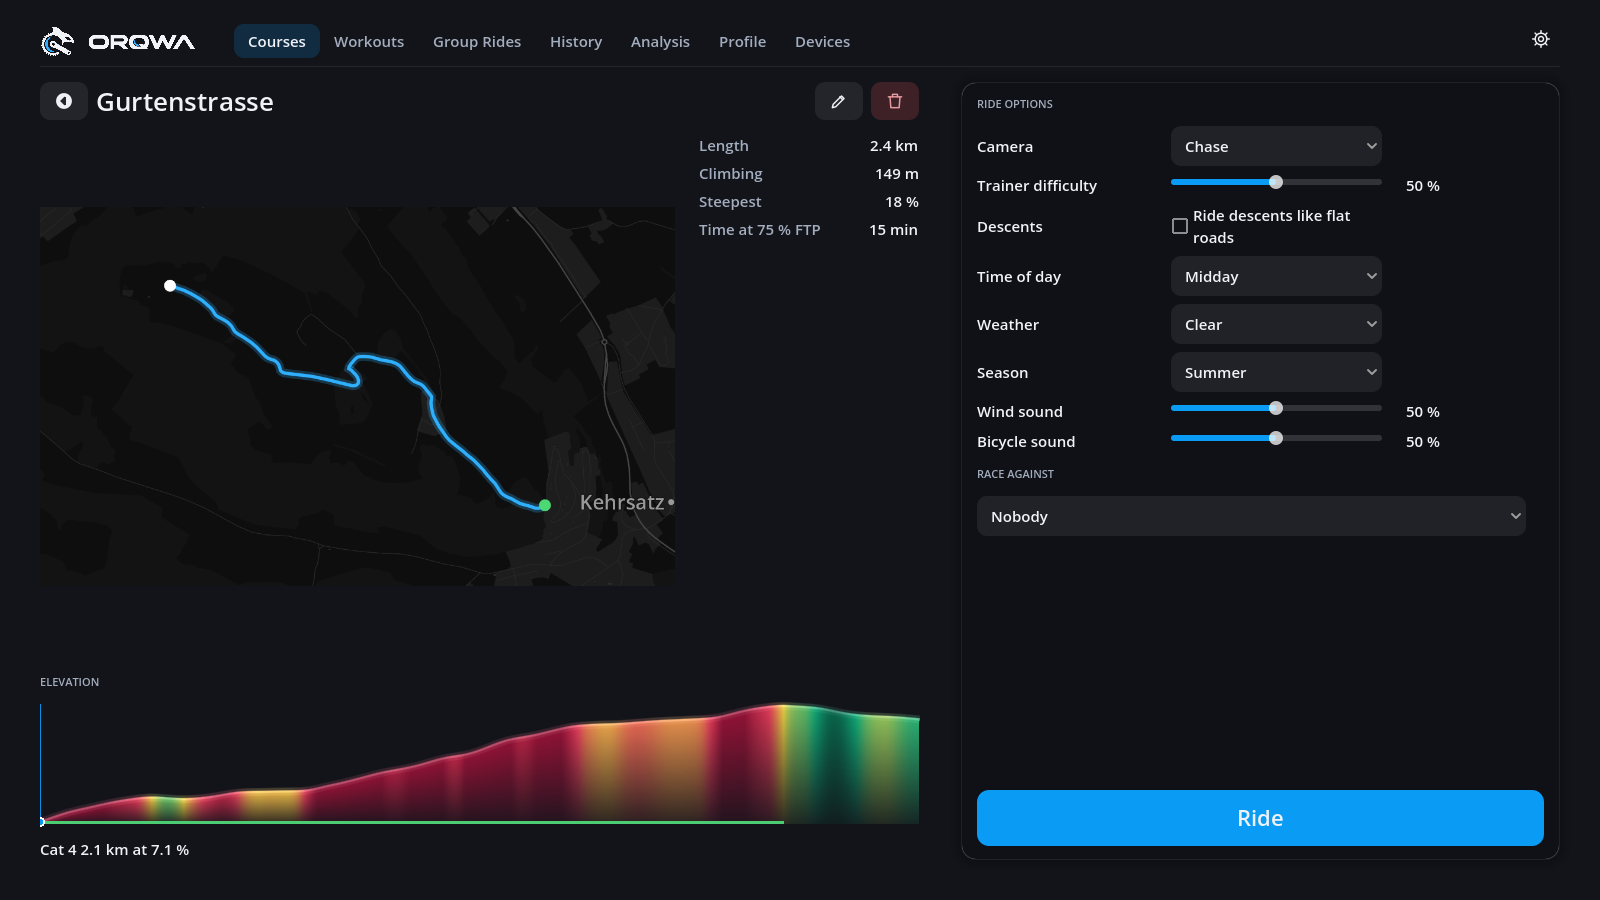
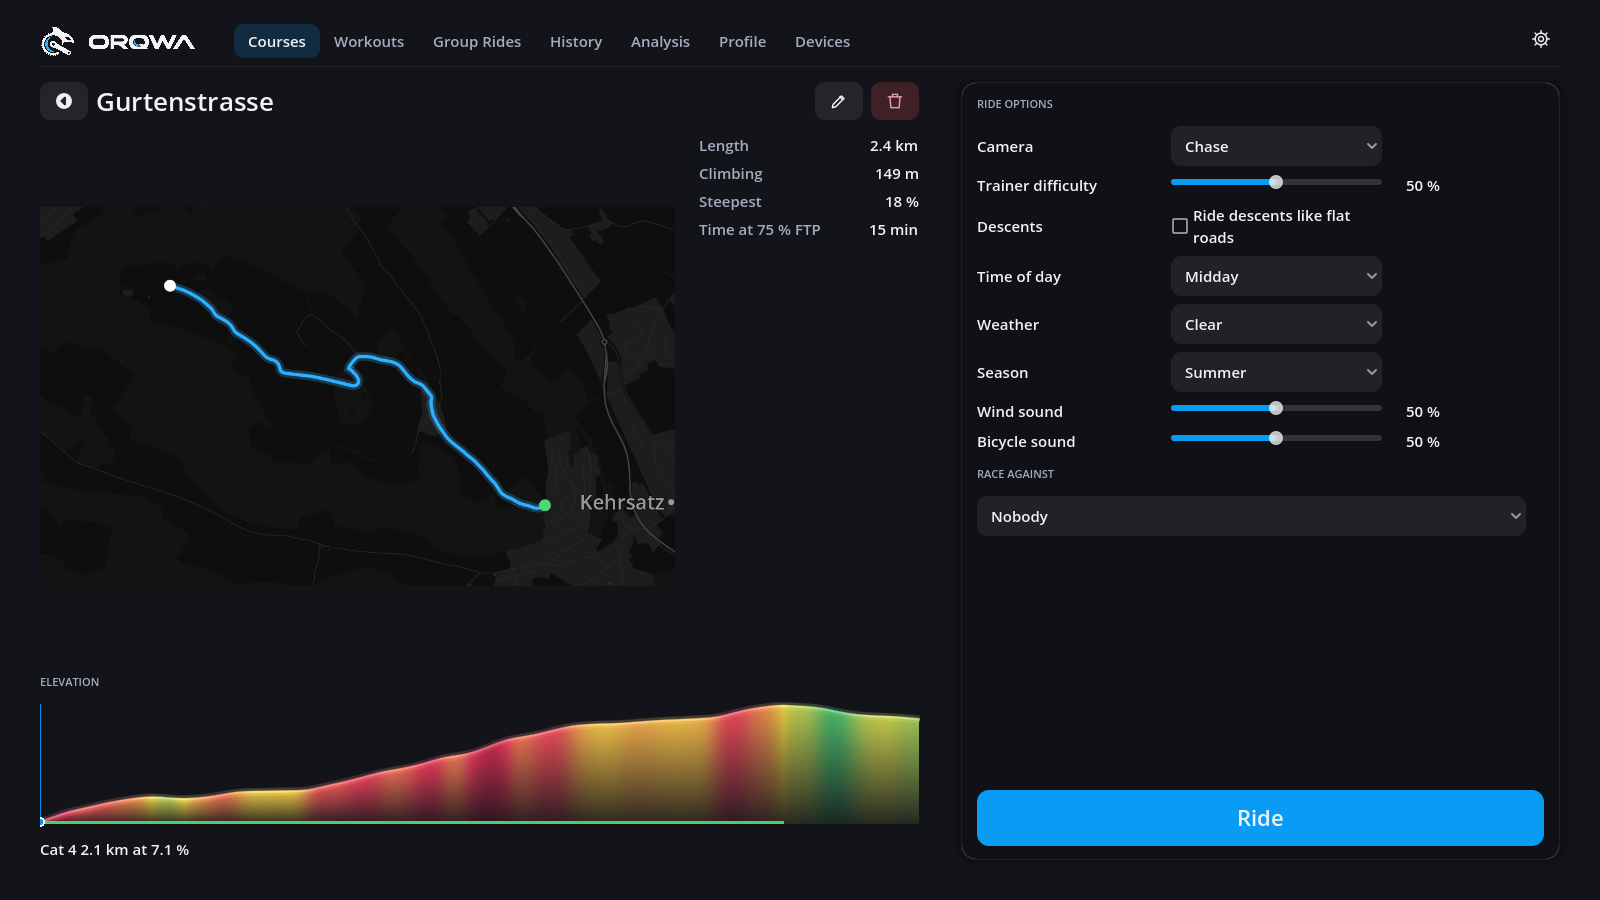
feat(ui): see-through gradient profile over the ride, deep red at 25%
During a ride the profile sits over the 3D world, so its area and outline
are drawn more transparent there. The colour scale now reaches its darkest
shade at 25% either way, so ordinary climbs spread over the reds instead of
all looking deep red at 10%.

Changed region(s): [[0.1875, 0.7778, 0.5938, 0.9333], [0.0312, 0.8711, 0.1562, 0.9333]]

diff --git a/docs/REQUIREMENTS.md b/docs/REQUIREMENTS.md
@@ -670,5 +670,5 @@ Click, R75), and a Zwift Click v2 (R77, R96).
 
 | ID | Requirement |
 |---|---|
-| R241 | Refines R19 and R40 (2026-11-11): the area under the elevation profile is coloured by gradient, during a ride and wherever a course's profile is shown: **yellow on the flat, green going down and red going up, darker the steeper**, reaching the darkest green or red at 10% and beyond. During a ride the ridden part is solid and the part still ahead translucent; the course view shows the whole profile solid. The outline, rider, friends, ghost and climb bands are unchanged. |
+| R241 | Refines R19 and R40 (2026-11-11): the area under the elevation profile is coloured by gradient, during a ride and wherever a course's profile is shown: **yellow on the flat, green going down and red going up, darker the steeper**, reaching the darkest green or red at 25% and beyond. During a ride the profile is drawn over the 3D world, so it stays see-through: the ridden part half-transparent and the part still ahead faint; the course view shows the whole profile solid. The outline, rider, friends, ghost and climb bands are unchanged. |
 | R242 | Refines R241 (2026-11-11): gradient colours are **opt-in**, per rider: **Elevation colors** in the rider's profile, off for new and existing riders. Off, the profile looks as before, with the ridden part in the accent colour and the rest light. The choice applies to the ride, course detail and group activity previews, and to a ride in progress as soon as it is saved. |
